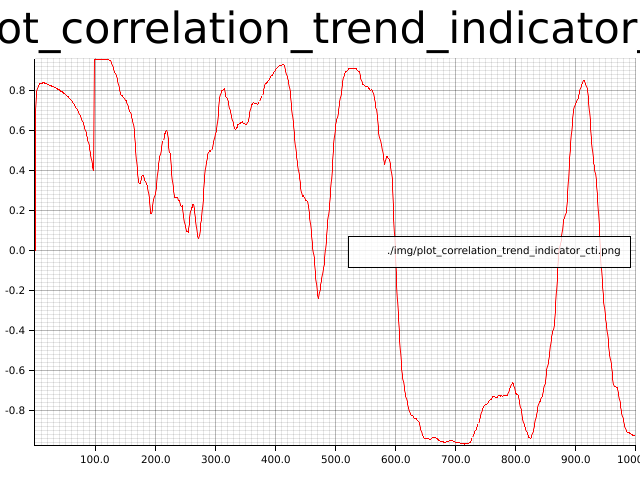
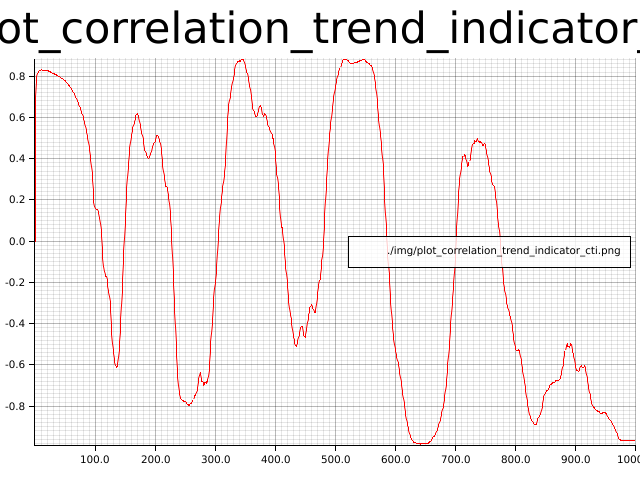
added variance stabilizing centering transform sliding window (vsct.rs)

Changed region(s): [[0.0, 0.0938, 1.0, 0.9375]]

diff --git a/src/vsct.rs b/src/vsct.rs
@@ -1,0 +1,61 @@
+use crate::{View, WelfordOnline};
+
+/// Variance Stabilizing Centering Transform Sliding Window
+#[derive(Clone)]
+pub struct VSCT {
+    view: Box<dyn View>,
+    window_len: usize,
+    welford_online: WelfordOnline,
+    last: f64,
+}
+
+impl VSCT {
+    pub fn new(view: Box<dyn View>, window_len: usize) -> Self {
+        VSCT {
+            view,
+            window_len,
+            welford_online: WelfordOnline::new(),
+            last: 0.0,
+        }
+    }
+}
+
+impl View for VSCT {
+    fn update(&mut self, val: f64) {
+        self.view.update(val);
+        let view_last = self.view.last();
+        self.welford_online.update(view_last);
+        self.last = view_last;
+    }
+
+    fn last(&self) -> f64 {
+        let std_dev = self.welford_online.last();
+        if std_dev == 0.0 {
+            return 0.0
+        }
+        let mean = self.welford_online.mean;
+        (self.last - mean) / std_dev
+    }
+}
+
+#[cfg(test)]
+mod tests {
+    use super::*;
+    use crate::Echo;
+    use rust_timeseries_generator::plt;
+
+    #[test]
+    fn vsct() {
+        let rands: Vec<f64> = (0..100).map(|v| rand::random::<f64>() * 20.0 + 100.0).collect();
+        println!("rands: {:?}", rands);
+
+        let mut vsct = VSCT::new(Box::new(Echo::new()), 20);
+        let mut out: Vec<f64> = Vec::with_capacity(rands.len());
+        for v in &rands {
+            vsct.update(*v);
+            out.push(vsct.last());
+        }
+        let filename = "img/vsct.png";
+        plt::plt(out, filename);
+    }
+}

diff --git a/src/lib.rs b/src/lib.rs
@@ -16,6 +16,7 @@ mod welford_online;
 mod variance_stabilizing_transformation;
 mod entropy;
 mod correlation_trend_indicator;
+mod vsct;
 
 pub use center_of_gravity::CenterOfGravity;
 pub use cyber_cycle::CyberCycle;
@@ -35,6 +36,7 @@ pub use variance_stabilizing_transformation::VST;
 pub use laguerre_filter::LaguerreFilter;
 pub use roofing_filter::RoofingFilter;
 pub use correlation_trend_indicator::CorrelationTrendIndicator;
+pub use vsct::VSCT;
 
 // Does not impl View
 pub use entropy::Entropy;

diff --git a/src/welford_online.rs b/src/welford_online.rs
@@ -2,7 +2,7 @@ use crate::sliding_window::View;
 
 #[derive(Debug, Clone)]
 pub struct WelfordOnline {
-    mean: f64,
+    pub(crate) mean: f64,
     s: f64,
     n: usize,
 }
